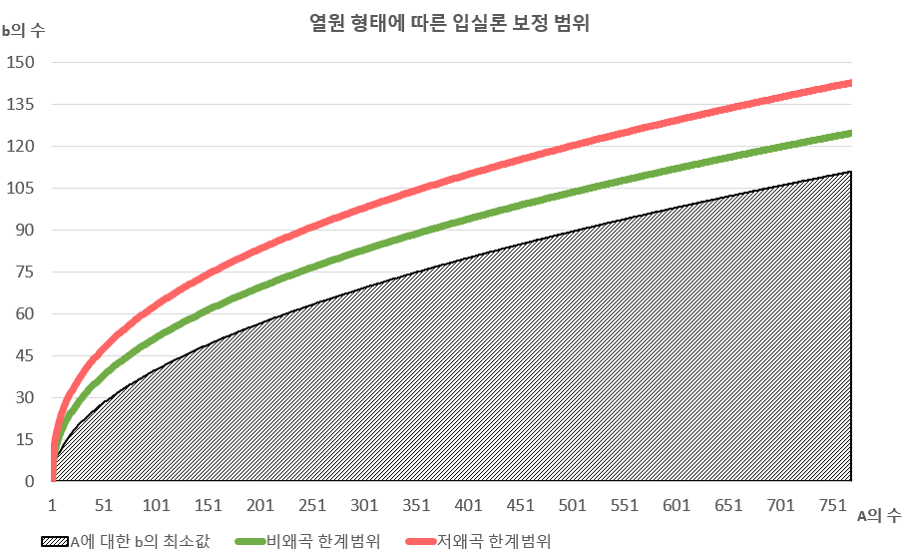
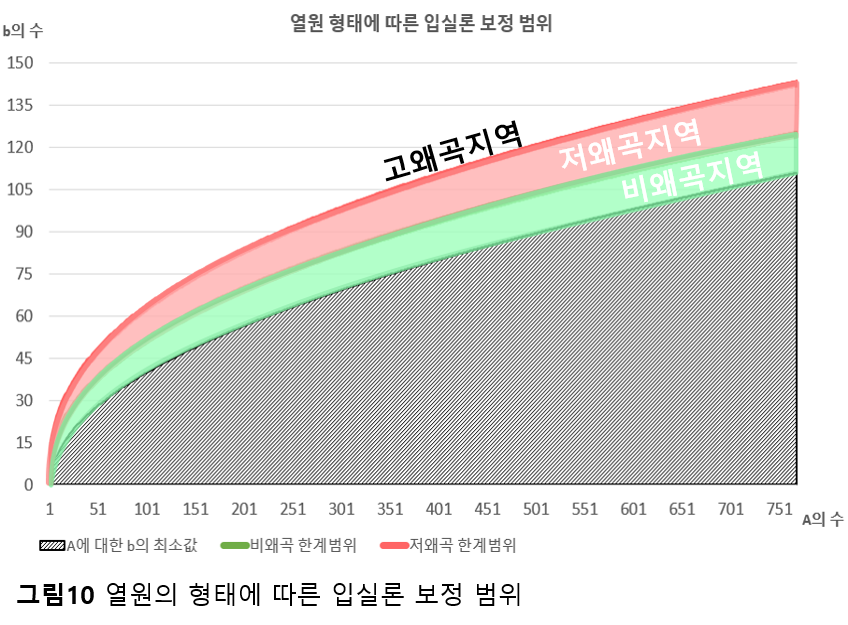
asset change

diff --git a/portfolio/Burn_Protection_Method.md b/portfolio/Burn_Protection_Method.md
@@ -44,18 +44,84 @@ sitemap: false
 
 ##### 개요
 
- 화상 방지를 위해 다양한 기술의 사용을 고민하였다.
-라이다 센서, 초음파 센서 + 열화상 센서의 조합 등의 고민을 하였지만, 이 프로젝트의 목적 중 하나는 '상품성'이었고, 이를 위해 생산 단가를 최대한 낮춰야 했다. 결론적으로 열화상카메라만 사용하는 것으로 결정하였고, 열화상 카메라를 이용하여 
+ 화상 방지를 위해 다양한 기술의 사용을 고민하였다.<br>
+라이다 센서, 초음파 센서 + 열화상 센서의 조합 등의 고민을 하였지만, 이 프로젝트의 목적 중 하나는 '상품성'이었고, 이를 위해 생산 단가를 최대한 낮춰야 했다. 결론적으로 열화상카메라만 사용하는 것으로 결정하였고, 열화상 카메라를 이용하여 열원의 접근 및 후퇴, 지나침을 판단할 알고리즘을 구현해야 했다.
+
+
+
+##### 개발 과정
+
+우선, 우리가 사용하는 mlx90640은 32*24해상도의 온도 배열을 제공한다. 이를 바탕으로 일정 온도 이상을 열원으로 구분하고, 열원의 위치에 1(A), 열원의 주변부에 5(b), 기타 부위에 0을 넣은 배열로 반환하도록 하였다. 이를 위해 mlx90640 제작처에서 제공한 라이브러리를 수정할 필요가 있었다.
+
+<center>
+    <img src="https://github.com/Hangeol-Chang/Hangeol-chang.github.io/blob/main/assets/img/portfolio/Burn_Protection_Method/getThermalImage.png?raw=true" width="600">
+</center>
+
+###### 라이브러리 픽스
+
+기존의 mlx90640은 열원의 배열을 얻어올 때, 32*24 배열의 전체를 얻어오는 것이 아닌, 체스판 형태나, 줄무늬 형태로 한 번에 전체 배열의 반을 가져오고, 다음 탐색에서 나머지 반을 가져오게 된다. 하지만, 이는 이 연구에서 열원의 접근을 감지할 때 데이터를 처리하기 어렵게 하고, 오작동을 유발하므로, 이를 한 번의 탐색에 모든 데이터를 가져오도록 수정하였다.
+
+<center>
+    <img src="https://www.waveshare.com/w/upload/0/00/MLX90640_Thermal_Camera_manual-4.png" width="500">
+</center>
+
+열원의 접근 감지는 아래의 방법으로 이루어진다.<br>
+
+열원을 1(A)로, 열원과 인접한 셀을 5(b)로 변환하여 ‘이동예측범위’를 지정한다. 그 후, 나머지 관련 없는 셀들을 모두 0으로 변환한다. 즉, 배경(0)으로부터 열원(A)을 경계(b)로서 객체분할한 것이다. 예를 들어, 아래의 그림에서와 같이, 뜨거운 냄비를 감지한 50도 이상의 셀 8개는 A로, 이들과 인접한 셀은 b로, 나머지는 0으로 변환된다. 
+
+<br>
+
+<center>
+    <img src="https://github.com/Hangeol-Chang/Hangeol-chang.github.io/blob/main/assets/img/portfolio/Burn_Protection_Method/changeArray.png?raw=true" width="600">
+</center>
+
+ 각 탐색마다 해당 과정을 반복하고, 이전 온도배열와 비교하여 배열의 각 자리 셀들이 어떻게 바뀌었는지를 파악하여 A에서 b로, b에서 A로 변화된 셀 수를 카운트한다. 현재 루프 배열 − 이전 루프 배열을 계산했을 때, 배열 각 자리의 결과값을 이용하여 A와 b가 어떻게 바뀌었는지 파악하는 방식으로 진행한다. 위의 그림 에서와 같이, 현재 루프 배열에서 이전 루프 배열을 뺏을 때, ‘A(1) -> b(5)’이면 5 – 1 = 4, ‘b(5) -> A(1)’이면 1 – 5 = –4의 결과가 계산된다. 
+
+
+
+#### 위험 판단 기준.
+
+위에서 계산한 값들을 이용하여, 착용자가 열원에 접근하는지를 판단하기 위해 아래와 같이 입실론을 정의한다.<br>
+$$
+\epsilon = \frac{b의 A로 변화량(-4)}{A의 b로 변화량(4) + 1}
+$$
+<br>
+
+ 판별식은 이전 루프에 비교하여 열원(A)에서 경계(b)로, 경계(b)에서 열원(A)으로 바뀐 셀 수의 비를 나타내는 식이며, 분모의 +1은 ‘A -> b’ 값이 0이 되어 분모가 0이 되는 경우를 방지하기 위하여 추가된 상수이다.<br>
+
+위 식을 통하여, 입실론의 범위에 따라 아래의 표와 같이 열원의 접근, 후퇴 밑 지나침을 판단할 수 있다.
+
+| 입실론 범위     | 물체의 이동 양상 |
+| --------------- | ---------------- |
+| 0 이상 0.5 미만 | 멀어짐           |
+| 0.5 이상 1 미만 | 지나침           |
+| 1 이상          | 접근             |
+
+이 입실론 범위 경계값들은 100회 이상의 실험을 통해 경험적으로 얻어냈다.<br>
+
+추가로 설명하자면, 열원이 멀어지는 경우에는 열원을 인식한 셀의 수가 감소하므로, ‘b -> A 변화량’보다 ‘A -> b 변화량’이 더 커짐에 따라 값이 작아진다. 따라서,  입실론 값이 0에 가까워지는 것을 확인할 수 있었다. 열원이 접근하는 경우에는 열원을 인식한 셀의 수가 증가하므로, ‘b -> A 변화량’이 ‘A -> b 변화량’에 비해 커짐에 따라  입실론 값이 커지고, 실험결과 1 이상의 값들이 계산되는 것을 확인하였다. 마지막으로 열원이 스마트밴드와 평행하게 지나쳐가는 경우에는 열원을 인식한 셀의 수에는 변동이 크지 않으므로, 입실론 값이 1 미만의 값에 수렴하는 것을 확인하였다.<br>
+
+하지만, 한 번의 입실론 측정으로 위험을 판단하면, 불필요한 상황에도 경고가 울리는 등 오류가 잦게 발생하였다. 이 오작동을 방지하기 위해 연속된 세 개의 온도 배열을 이용하여 입실론1, 입실론2를 구한 후, 두 입실론이 모두 1보다 크거나 같을 때 위험을 판단하게 하였다.
 
 
 
 #### 왜곡 보정
 
-열원의 형태에 따라
+ 위의 방법으로 열원의 접근을 판단할 시, 열원의 형태에 따라 접근시에 epsilon이 달라지는 현상이 나타난다. 이는 같은 크기의 물체라도 그 형태에 따라 열원을 감지한 셀의 수와, 주변부를 감지한 셀의 수의 비가 차이가 나기 때문이다.
 
 <center>
-    <img src="../../assets/img/portfolio/Burn_Protection_Method/distort.png" width="600">
+    <img src="https://github.com/Hangeol-Chang/Hangeol-chang.github.io/blob/main/assets/img/portfolio/Burn_Protection_Method/distort.png?raw=true" width="600">
 </center>
+
+위의 그림에서 열원은 모두 12칸의 셀을 차지하지만, 주변부는 각각 14, 18, 24셀을 차지하는 것을 볼 수 있다. 각각의 물체가 동일하게 이동하여도, A->b 셀의 수와, b->A 셀의 수가 차이가 나기 때문에 화상방지 알고리즘은 각기 다른 판단을 하게 된다. 기존의 알고리즘은 '정사각 형태의 열원'을 기준으로 설계되었기에, 정사각 형태에서 벗어나는 열원에 대해 '왜곡'이라고 지칭하고, 왜곡된 열원에 대한 보정을 진행하였다.
+
+
+
+<center>
+    <img src="https://github.com/Hangeol-Chang/Hangeol-chang.github.io/blob/main/assets/img/portfolio/Burn_Protection_Method/epsilon_correction_graph.png?raw=true" width="600">
+</center>
+
+위의 그래프는,
 
 
 
@@ -64,7 +130,7 @@ sitemap: false
 mlx90640은 110*60의 화각을 가지고 있으며, 이를 두 개 이용하여, 사용자의 최대한 많은 활동범위의 열원을 감지해야 한다.
 
 <center>
-<img src="../../assets/img/portfolio/Burn_Protection_Method/cameraRange.png" width="600">
+<img src="https://github.com/Hangeol-Chang/Hangeol-chang.github.io/blob/main/assets/img/portfolio/Burn_Protection_Method/cameraRange.png?raw=true" width="600">
 </center>
 
 
